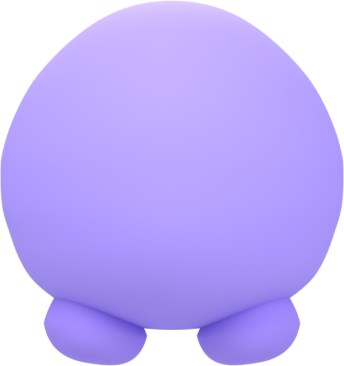
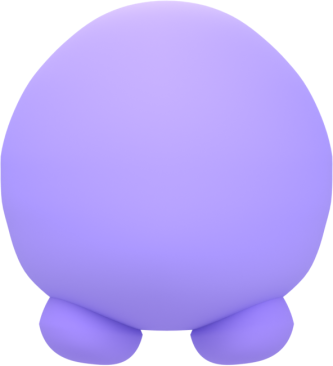
Bone the legs, and fix the closed eyes against the reference art
Legs. Rotating one as a rigid object pivots the whole stump out of the
body's outline, so past a few degrees it reads as a lozenge parked
beside the body. A bone weighted across the hip keeps the top with the
body and swings only the lower part, so eighteen degrees now reads
better than seven did. The torso and legs are three separate meshes -
the body stops at z 0.225 and each foot runs up to 0.571, overlapping it
by 0.346, which is why they render seamlessly - so they are joined into
one mesh before rigging, in memory. The rest pose is checked against the
unrigged render rather than assumed: IoU 1.0.

A pose bone's rotation is in bone space, and these bones point straight
down, so their local Y runs along the leg: rotating about it spins the
stump on its own axis. The first rigged render came back with the leg
span identical to the pixel across all four frames.

Eyes. Both closed shapes were wrong, and the measurements say how.

Sleepy was inverted. The reference bows down with its ends turning up;
an earlier pass read the file's own sleepy lid as curving the wrong way
and derived sleepy from the pleased crescent instead, which flipped it.
The file's lid was right all along and is used again.

Both were too shallow and too heavy. Measured off the reference art, the
pleased lid runs 2.10 wide-to-tall and the sleepy one 2.58; they were at
2.44 and 2.80. They are now 2.01 and 2.52. And the extra 25% stroke an
[…]

diff --git a/components/mascot/parts.ts b/components/mascot/parts.ts
@@ -52,10 +52,10 @@ export const MASCOT_PARTS: Record<MascotPartName, MascotPart> = {
   "scene_onboarding": { rect: [0.160156, 0.222656, 0.679688, 0.427734], src: require('../../assets/mascot/scene_onboarding.png') },
   "scene_streak_reward": { rect: [0.021484, 0.047852, 0.874023, 0.736328], src: require('../../assets/mascot/scene_streak_reward.png') },
   "scene_study_review": { rect: [0.201172, 0.290039, 0.679688, 0.602539], src: require('../../assets/mascot/scene_study_review.png') },
-  "eye_arc_L": { rect: [0.317383, 0.421875, 0.161133, 0.068359], src: require('../../assets/mascot/eye_arc_L.png') },
-  "eye_arc_R": { rect: [0.522461, 0.421875, 0.160156, 0.067383], src: require('../../assets/mascot/eye_arc_R.png') },
-  "eye_closed_L": { rect: [0.317383, 0.463867, 0.161133, 0.044922], src: require('../../assets/mascot/eye_closed_L.png') },
-  "eye_closed_R": { rect: [0.522461, 0.463867, 0.160156, 0.044922], src: require('../../assets/mascot/eye_closed_R.png') },
+  "eye_arc_L": { rect: [0.317383, 0.412109, 0.161133, 0.080078], src: require('../../assets/mascot/eye_arc_L.png') },
+  "eye_arc_R": { rect: [0.521484, 0.411133, 0.161133, 0.082031], src: require('../../assets/mascot/eye_arc_R.png') },
+  "eye_closed_L": { rect: [0.317383, 0.46582, 0.161133, 0.040039], src: require('../../assets/mascot/eye_closed_L.png') },
+  "eye_closed_R": { rect: [0.522461, 0.46582, 0.160156, 0.040039], src: require('../../assets/mascot/eye_closed_R.png') },
   "eye_focused_L": { rect: [0.321289, 0.420898, 0.151367, 0.130859], src: require('../../assets/mascot/eye_focused_L.png') },
   "eye_focused_R": { rect: [0.527344, 0.420898, 0.151367, 0.130859], src: require('../../assets/mascot/eye_focused_R.png') },
   "eye_glance_L": { rect: [0.317383, 0.385742, 0.161133, 0.163086], src: require('../../assets/mascot/eye_glance_L.png') },
@@ -64,8 +64,8 @@ export const MASCOT_PARTS: Record<MascotPartName, MascotPart> = {
   "eye_half_R": { rect: [0.521484, 0.4375, 0.161133, 0.078125], src: require('../../assets/mascot/eye_half_R.png') },
   "eye_open_L": { rect: [0.317383, 0.394531, 0.161133, 0.164063], src: require('../../assets/mascot/eye_open_L.png') },
   "eye_open_R": { rect: [0.521484, 0.394531, 0.161133, 0.164063], src: require('../../assets/mascot/eye_open_R.png') },
-  "eye_sleepy_L": { rect: [0.317383, 0.446289, 0.160156, 0.039063], src: require('../../assets/mascot/eye_sleepy_L.png') },
-  "eye_sleepy_R": { rect: [0.521484, 0.446289, 0.161133, 0.039063], src: require('../../assets/mascot/eye_sleepy_R.png') },
+  "eye_sleepy_L": { rect: [0.317383, 0.525391, 0.160156, 0.066406], src: require('../../assets/mascot/eye_sleepy_L.png') },
+  "eye_sleepy_R": { rect: [0.522461, 0.521484, 0.160156, 0.06543], src: require('../../assets/mascot/eye_sleepy_R.png') },
   "eye_smile_L": { rect: [0.317383, 0.394531, 0.161133, 0.164063], src: require('../../assets/mascot/eye_smile_L.png') },
   "eye_smile_R": { rect: [0.521484, 0.394531, 0.161133, 0.164063], src: require('../../assets/mascot/eye_smile_R.png') },
   "eye_squeezed_L": { rect: [0.351563, 0.441406, 0.089844, 0.070313], src: require('../../assets/mascot/eye_squeezed_L.png') },
@@ -75,9 +75,9 @@ export const MASCOT_PARTS: Record<MascotPartName, MascotPart> = {
   "eye_wink_L": { rect: [0.345703, 0.430664, 0.092773, 0.079102], src: require('../../assets/mascot/eye_wink_L.png') },
   "eye_wink_R": { rect: [0.561523, 0.430664, 0.092773, 0.079102], src: require('../../assets/mascot/eye_wink_R.png') },
   "body_feet_s0": { rect: [0.201172, 0.259766, 0.597656, 0.630859], src: require('../../assets/mascot/body_feet_s0.png') },
-  "body_feet_s1": { rect: [0.201172, 0.259766, 0.597656, 0.634766], src: require('../../assets/mascot/body_feet_s1.png') },
-  "body_feet_s2": { rect: [0.201172, 0.259766, 0.597656, 0.638672], src: require('../../assets/mascot/body_feet_s2.png') },
-  "body_feet_s3": { rect: [0.201172, 0.259766, 0.597656, 0.640625], src: require('../../assets/mascot/body_feet_s3.png') },
+  "body_feet_s1": { rect: [0.210938, 0.259766, 0.578125, 0.634766], src: require('../../assets/mascot/body_feet_s1.png') },
+  "body_feet_s2": { rect: [0.220703, 0.259766, 0.558594, 0.637695], src: require('../../assets/mascot/body_feet_s2.png') },
+  "body_feet_s3": { rect: [0.231445, 0.259766, 0.537109, 0.639648], src: require('../../assets/mascot/body_feet_s3.png') },
 };
 
 /** Back to front, the standing stack. */

diff --git a/components/mascot/state.ts b/components/mascot/state.ts
@@ -50,8 +50,9 @@ export interface HopSpec {
    * tilt is what makes it read as thrown. It is fed to the roll spring rather than
    * applied directly, so the body keeps leaning for a moment after it lands. */
   tilt?: number;
-  /** Degrees the legs swing apart at the apex. They hang under a standing body and
-   * splay once there is nothing to stand on. */
+  /** Degrees the legs swing apart at the apex. The torso is re-rendered with the legs
+   * bone-deformed at each angle, so the hip stays with the body and the swing can be
+   * seen without the leg coming away from it. */
   splay?: number;
   beats?: readonly [number, number, number, number, number];
 }
@@ -115,7 +116,7 @@ export const MASCOT_STATES: Record<MascotMood, MascotState> = {
   /** Pleased. The hop is small and lands softly — this is contentment, not a party. */
   happy: {
     roll: [0, 2.4, 1.05], tx: [0, 0.005, 1], ty: [0, 0, 0],
-    squash: [1, 0.018, 2.1], hop: { height: 0.030, rate: 1.0, crouch: 0.010, squash: 0.06, tilt: 7, splay: 13 },
+    squash: [1, 0.018, 2.1], hop: { height: 0.030, rate: 1.0, crouch: 0.010, squash: 0.06, tilt: 7, splay: 12 },
     lid: 1, eyeScale: 1.04, arm: [11, 17, 1.8],
     eyes: ['arc', 'squeezed'], eyeHold: [2200, 4200], mouth: 'mouth_open',
     blink: [2600, 5200], wink: [4200, 9000], earLag: 0.72, tailLag: 1.1,
@@ -126,7 +127,7 @@ export const MASCOT_STATES: Record<MascotMood, MascotState> = {
    * which is what separates excitement from cheerfulness: it punctuates. */
   excited: {
     roll: [0, 4.5, 5.2], tx: [0, 0.008, 1.1], ty: [0, 0, 0],
-    squash: [1.008, 0.026, 2.3], hop: { height: 0.046, rate: 1.28, crouch: 0.013, squash: 0.075, tilt: 16, splay: 22 },
+    squash: [1.008, 0.026, 2.3], hop: { height: 0.046, rate: 1.28, crouch: 0.013, squash: 0.075, tilt: 16, splay: 18 },
     lid: 1, eyeScale: 1.06, arm: [5, 21, 2.3],
     eyes: 'squeezed', mouth: 'mouth_open',
     prop: 'gold_accents', propMotion: 'pop',

diff --git a/components/mascot/MascotCharacter.tsx b/components/mascot/MascotCharacter.tsx
@@ -100,9 +100,9 @@ const SHADOW_FALLOFF = 9;
  * a large rotation walks the join off the body. */
 const ARM_GAIN = 0.45;
 /** The joined torso, rendered at each leg angle. Degrees between frames must match
- * the STEPS in scripts/render-mascot-leg-poses.py. */
+ * the STEPS in scripts/rig-mascot-legs.py. */
 const LEG_FRAMES: MascotPartName[] = ['body_feet_s0', 'body_feet_s1', 'body_feet_s2', 'body_feet_s3'];
-const LEG_FRAME_DEG = 7;
+const LEG_FRAME_DEG = 6;
 
 interface Spring { x: number; v: number; t: number }
 function spring(x: number): Spring { return { x, v: 0, t: x }; }
@@ -532,10 +532,12 @@ export function MascotCharacter({ width, mood = 'idle', blinkSignal = 0, beatSig
     : reach === 'R' ? MASCOT_ARM_VARIANTS.thinking.bodyRight
       : 'body_feet';
   // A hop swings the legs out, and the torso is re-rendered joined at each angle
-  // rather than having its legs cut off and rotated as layers. The legs only read as
-  // part of the character because of the contact shading where they meet the body:
-  // separated, the silhouettes still match to an IoU of 0.998 and the whole visible
-  // difference is that join. So the frames are picked, not posed.
+  // rather than having its legs cut off and rotated as layers. Two reasons. The legs
+  // only read as part of the character because of the contact shading where they meet
+  // the body - separated, the silhouettes still match to an IoU of 0.998 and the whole
+  // visible difference is that join. And they are bone-deformed, so the hip stays with
+  // the body and only the lower part swings; rotating a cut-out leg rigidly pivots the
+  // whole stump clear of the outline and it stops reading as a leg.
   const posedLegs = !!state.hop && !reach;
 
   return (

diff --git a/scripts/rig-mascot-legs.py b/scripts/rig-mascot-legs.py
@@ -1,0 +1,139 @@
+# Rig the joined torso's legs and render them posed.
+#
+# Rotating a leg as a rigid object pivots the whole stump out of the body's outline,
+# so past a few degrees it stops reading as a leg and starts reading as a lozenge
+# parked beside the body. A bone does not have that problem: weighted across the hip,
+# the top of the leg stays with the body and only the lower part swings, which is what
+# lets the swing be large enough to see.
+#
+# The torso and the two feet are three separate objects in the file, and a bone cannot
+# deform smoothly across an object boundary, so they are joined into one mesh first.
+# All of this happens in memory - the .blend is opened, never written.
+#
+#   blender --background "<parts.blend>" --python scripts/rig-mascot-legs.py -- <out-dir>
+#
+# Writes body_feet_s0..sN, s0 being the rest pose. The rest pose is compared against
+# the unrigged render so a bad weighting shows up as a number rather than a surprise.
+import math
+import os
+import sys
+
+import bpy
+from mathutils import Quaternion, Vector
+
+OUT = sys.argv[sys.argv.index("--") + 1]
+os.makedirs(OUT, exist_ok=True)
+
+# Degrees each leg swings out at the apex of a hop. A bone can carry more than a rigid
+# rotation could, because the hip stays put.
+STEPS = [0.0, 6.0, 12.0, 18.0]
+
+scene = bpy.context.scene
+scene.camera = bpy.data.objects["Camera | Front"]
+scene.render.engine = 'CYCLES'
+scene.cycles.samples = 128
+scene.render.film_transparent = True
+scene.render.resolution_x = scene.render.resolution_y = 1024
+scene.render.image_settings.file_format = 'PNG'
+scene.render.image_settings.color_mode = 'RGBA'
+
+DRAWN = ('MESH', 'CURVE', 'FONT')
+body = bpy.data.objects['Body | rounded clay shell']
+feet = [bpy.data.objects['Foot.L'], bpy.data.objects['Foot.R']]
+
+
+def extent(obj):
+    pts = [obj.matrix_world @ v.co for v in obj.data.vertices]
+    return pts
+
+
+def leg_bone(obj):
+    """Head at the top of the stump where it meets the body, tail at its lowest point."""
+    pts = extent(obj)
+    top = max(p.z for p in pts)
+    bot = min(p.z for p in pts)
+    band = [p for p in pts if p.z > top - 0.05]
+    head = Vector((sum(p.x for p in band) / len(band),
+                   sum(p.y for p in band) / len(band), top))
+    low = [p for p in pts if p.z < bot + 0.05]
+    tail = Vector((sum(p.x for p in low) / len(low),
+                   sum(p.y for p in low) / len(low), bot))
+    return head, tail
+
+
+BONES = [leg_bone(f) for f in feet]
+for (h, t), f in zip(BONES, feet):
+    print(f"[G] {f.name}: head ({h.x:+.3f}, {h.z:+.3f})  tail ({t.x:+.3f}, {t.z:+.3f})")
+
+# --- render the unrigged rest pose first, as the thing to compare against ----------
+for o in bpy.data.objects:
+    if o.type in DRAWN:
+        o.hide_render = o not in ([body] + feet)
+scene.render.filepath = os.path.join(OUT, "_unrigged.png")
+bpy.ops.render.render(write_still=True)
+print("[G] rendered the unrigged rest pose")
+
+# --- join the three meshes --------------------------------------------------------
+view = bpy.context.view_layer
+for o in bpy.data.objects:
+    o.select_set(False)
+for o in [body] + feet:
+    o.hide_viewport = False
+    o.select_set(True)
+view.objects.active = body
+bpy.ops.object.join()
+joined = view.objects.active
+joined.name = 'Joined torso'
+print(f"[G] joined into one mesh: {len(joined.data.vertices)} verts")
+
+# --- build the armature -----------------------------------------------------------
+arm_data = bpy.data.armatures.new('LegRig')
+rig = bpy.data.objects.new('LegRig', arm_data)
+scene.collection.objects.link(rig)
+view.objects.active = rig
+rig.select_set(True)
+bpy.ops.object.mode_set(mode='EDIT')
+pts = [joined.matrix_world @ v.co for v in joined.data.vertices]
+# A root bone holds everything that is not a leg, so automatic weights have somewhere
+# to put the body instead of smearing it onto the legs.
+root = arm_data.edit_bones.new('root')
+root.head = Vector((0.0, 0.0, max(p.z for p in pts)))
+root.tail = Vector((0.0, 0.0, min(p.z for p in pts)))
+for i, (head, tail) in enumerate(BONES):
+    b = arm_data.edit_bones.new(f'leg{i}')
+    b.head = head
+    b.tail = tail
+    b.parent = root
+    b.use_connect = False
+bpy.ops.object.mode_set(mode='OBJECT')
+
+for o in bpy.data.objects:
+    o.select_set(False)
+joined.select_set(True)
+rig.select_set(True)
+view.objects.active = rig
+bpy.ops.object.parent_set(type='ARMATURE_AUTO')
+print("[G] bound with automatic weights")
+
+for o in bpy.data.objects:
+    if o.type in DRAWN:
+        o.hide_render = o is not joined
+
+for i, deg in enumerate(STEPS):
+    bpy.ops.object.mode_set(mode='OBJECT')
+    for k, sign in ((0, 1.0), (1, -1.0)):
+        pb = rig.pose.bones[f'leg{k}']
+        pb.rotation_mode = 'QUATERNION'
+        # The front camera looks along Y, so a swing in the image plane turns about
+        # world Y. A pose bone's rotation is in BONE space, and these bones point
+        # straight down, so their local Y runs along the leg: rotating about it spins
+        # the stump on its own axis and changes nothing visible. The world axis has to
+        # be expressed in bone space first.
+        axis = pb.bone.matrix_local.to_3x3().inverted() @ Vector((0.0, 1.0, 0.0))
+        pb.rotation_quaternion = Quaternion(axis, math.radians(deg * sign))
+    view.update()
+    scene.render.filepath = os.path.join(OUT, f"body_feet_s{i}.png")
+    bpy.ops.render.render(write_still=True)
+    print(f"[G] body_feet_s{i}.png  legs at {deg:+.0f} degrees")
+
+print("[G] done")

diff --git a/scripts/render-mascot-eye-splits.py b/scripts/render-mascot-eye-splits.py
@@ -44,9 +44,17 @@ every = [o for o in bpy.data.objects if o.type in DRAWN]
 # which showed up as the lid breaking into a wavy line with two dots under it.
 # Applied in memory for the render only; the .blend keeps its own proportions.
 #   name -> (group scale, extra stroke, extra vertical scale)
+#
+# No extra stroke. The lids are modelled at the right weight already: measured against
+# the reference art, stroke over width is 0.155 there and 0.155 in the source, and a
+# uniform scale keeps that. An earlier pass added 25% on top and made them 18% heavier
+# than the reference. The vertical scales below are set from measured proportions -
+# the reference arcs run 2.10 wide-to-tall for the pleased lid and 2.58 for the
+# sleepy one.
 ADJUST = {
-    'arc': (1.44, 1.25, 1.0),
-    'closed': (1.44, 1.25, 1.0),
+    'arc': (1.44, 1.0, 1.26),
+    'sleepy': (1.44, 1.0, 1.20),
+    'closed': (1.44, 1.0, 1.0),
 }
 
 # The sleepy lids modelled in the file curve the wrong way: their ends turn up, so the
@@ -54,9 +62,7 @@ ADJUST = {
 # shape — flattened, it becomes a relaxed one — so the sleepy art is derived from it
 # instead, and the file's own sleepy curves go unused.
 #   group -> (name, scale, stroke, vertical scale)
-DERIVED = [
-    ('Eyes | Celebrate', 'sleepy', (1.44, 1.3, 0.55)),
-]
+DERIVED = []
 
 # Group in the .blend -> the name this project knows that expression by.
 GROUPS = {
@@ -68,9 +74,13 @@ GROUPS = {
     'Eyes | Blink closed': 'closed',
     'Eyes | Thinking': 'glance',
     'Eyes | Happy': 'smile',
-    # The upward crescent: eyes closed in a smile, which is what the reference art
-    # uses for the pleased states rather than an open eye.
+    # Two closed-lid crescents that bow upward, for the pleased states. The reference
+    # art wants a deep one, so both are rendered and the deeper wins.
     'Eyes | Celebrate': 'arc',
+    # Bows downward, ends turning up: a lowered, relaxed lid. This is what the
+    # reference sleepy actually is. An earlier pass read it as curving the wrong way
+    # and derived sleepy from the pleased crescent instead, which inverted it.
+    'Eyes | Sleepy': 'sleepy',
 }
 # The confused group is not a symmetric pair - it is one open eye beside one winking
 # one - so it is handled on its own below rather than split like the others.
